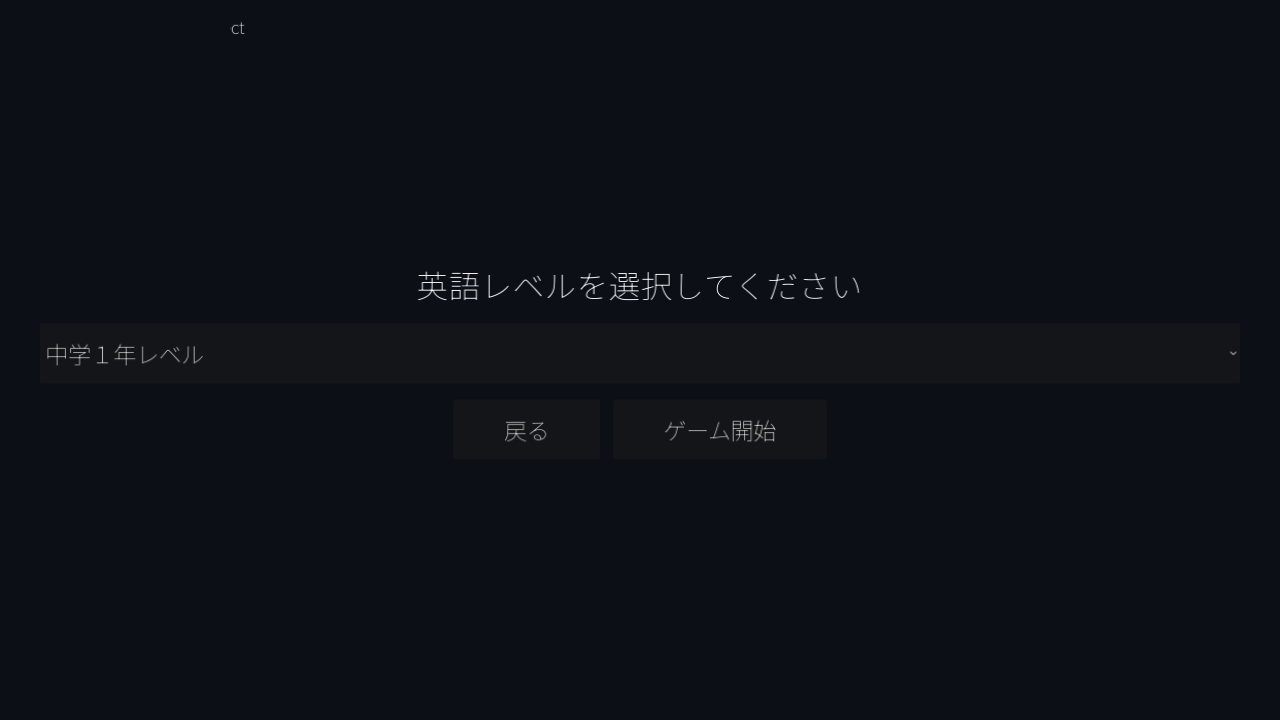
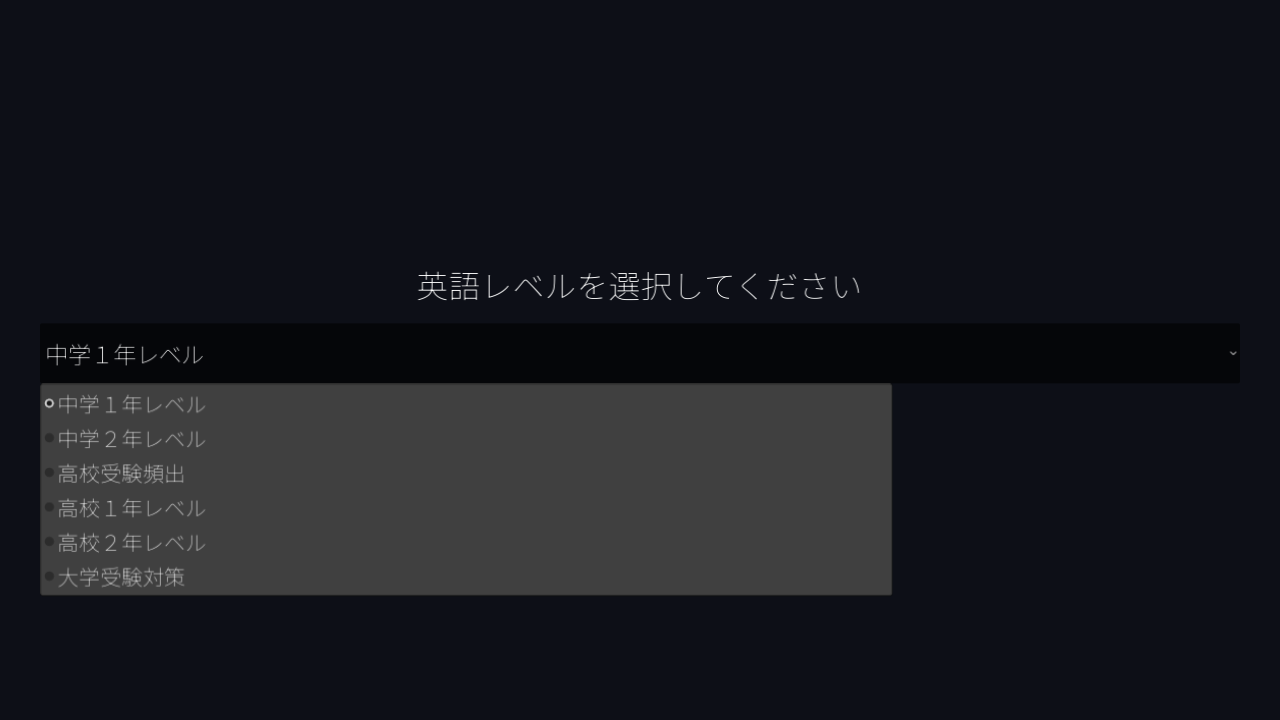
Update guide and landing page for the 3-Act map restructuring
Reflects the game's recent changes: 3-Act/30-floor map structure
(per-act chest/safe-room/boss placement, elite rates), a functional
rest screen, CardType-based card colors, the deck view panel, and the
mid-run save/continue feature. Refreshes screenshots for the map,
battle, victory, shop, and title screens, and adds new ones for the
deck view and rest screen.

Changed region(s): [[0.0312, 0.5194, 0.7188, 0.825]]

diff --git a/lexiconrogue-guide/modes.html b/lexiconrogue-guide/modes.html
@@ -42,27 +42,35 @@
     <p class="lede">マップの構造と、各マスで発生するイベントを解説します。</p>
 
     <h2>マップの構造</h2>
-    <p>1回のラン（周回）につき、マップは16階層（0〜15階）で構成されます。最初の1歩は必ず戦闘マスから始まり、3〜4本のルートが枝分かれ・合流しながら進み、最終的にすべてのルートが最上階（15階）の単一のボスマスへ収束します。行き止まりは発生しません。</p>
-    <ul>
-      <li><strong>7階</strong>：休憩マスが必ず配置されます（現在準備中の機能です）</li>
-      <li><strong>8階</strong>：宝箱マスが必ず配置されます</li>
-      <li><strong>11階</strong>：ショップマスが必ず配置されます</li>
-      <li><strong>8階以降</strong>：エリートマスが出現するようになります</li>
-    </ul>
-    <p>それ以外の階では、戦闘・？イベント・ショップ・休憩のいずれかが確率で配置されます。</p>
-    <img class="shot" src="assets/screenshots/04_map.png" alt="マップ画面のスクリーンショット">
-    <p class="shot-caption">マップは下から上へ進みます。ノードの色と文字でマスの種類が一目で分かります。</p>
+    <p>1回のラン（周回）は<strong>全3Act・通算30階層</strong>で構成されます。Actごとに新しいマップ（10階層）が生成され、最初の1歩は必ず戦闘マスから始まり、3〜4本のルートが枝分かれ・合流しながら進み、最終的にすべてのルートがそのActの最上階（10階層目）にある単一のボスマスへ収束します。行き止まりは発生しません。Act1・Act2のボスを倒すと次のActのマップが新しく生成され、Act3のボスを倒すとラン完全クリアです。</p>
+
+    <div class="table-wrap">
+    <table>
+      <tr><th>Act</th><th>通算階層</th><th>宝箱（確定）</th><th>安全地帯（確定）</th><th>ボス</th><th>エリート出現</th></tr>
+      <tr><td>Act 1</td><td>1〜10階</td><td>5階</td><td>9階（休憩 or ショップ）</td><td>10階</td><td>5階以降・出現率15%</td></tr>
+      <tr><td>Act 2</td><td>11〜20階</td><td>15階</td><td>19階（ショップ）</td><td>20階</td><td>13階以降・出現率20%</td></tr>
+      <tr><td>Act 3</td><td>21〜30階</td><td>25階</td><td>29階（休憩）</td><td>30階（最終ボス）</td><td>23階以降・出現率25%</td></tr>
+    </table>
+    </div>
+    <p>上記の確定マス以外の階では、戦闘・？イベント・ショップ・休憩のいずれかが確率で配置されます。Actが進むほどエリートの出現率が上がり、通常戦闘も手強い敵編成（Hardプール）へ切り替わるタイミングが早くなります（下記「戦闘」参照）。</p>
+    <img class="shot" src="assets/screenshots/04_map.png" alt="マップ画面のスクリーンショット。最上段にボス、その1つ下に休憩マスが並ぶ">
+    <p class="shot-caption">Act1のマップ上部。最上段（王のアイコン）がボス、その下の段が確定の安全地帯（この時は休憩が3つ並んでいる）です。ノードの色と文字でマスの種類が一目で分かります。</p>
 
     <h2>マスの種類</h2>
 
     <h3>⚔ 戦闘</h3>
-    <p>通常の敵と戦います。ゲーム内の通算勝利数に応じて、ギミックを持たない易しい敵編成（Easyプール）から、品詞相性やギミックを持つ手強い編成（Hardプール）へ自動的に切り替わります。勝利するとゴールドと、3枚から1枚選べるカード報酬を獲得できます。</p>
+    <p>通常の敵と戦います。<strong>そのAct内での通常戦闘の勝利回数</strong>に応じて、ギミックを持たない易しい敵編成（Easyプール）から、品詞相性やギミックを持つ手強い編成（Hardプール）へ自動的に切り替わります。この勝利回数はAct1→2→3へ進むたびに0にリセットされ、Actごとに切り替わるまでの猶予が変わります。</p>
+    <ul>
+      <li><strong>Act1</strong>：1〜3回目の通常戦闘まではEasy、4回目以降はHard</li>
+      <li><strong>Act2・Act3</strong>：1〜2回目まではEasy、3回目以降はHard</li>
+    </ul>
+    <p>勝利するとゴールドと、3枚から1枚選べるカード報酬を獲得できます。</p>
 
     <h3>精鋭 エリート</h3>
     <p>通常戦闘より強化された敵と戦う、リスクの高いマスです。勝利すると、カード報酬に加えて<strong>コモンまたはアンコモンのレリックを1個確定で獲得</strong>できます。</p>
 
     <h3>ボス</h3>
-    <p>各ルートの最終到達点にある、そのActで最も強い敵です。3種類のボスからランダムに1体が出現します。勝利すると<strong>レア・レリックを3択</strong>から1個選んで獲得できます。</p>
+    <p>各Actのマップの最終到達点にある、そのActで最も強い敵です。3種類のボスからランダムに1体が出現します。勝利すると<strong>レア・レリックを3択</strong>から1個選んで獲得できます。Act1・Act2のボスを倒すと次のActの新しいマップへ進み、Act3（最終Act）のボスを倒すとラン完全クリアです。</p>
 
     <h3>宝 宝箱</h3>
     <p>タップすると開封演出のあと、レアリティ抽選（Common 60% / Uncommon 30% / Rare 10%）でレリックを1個、確定で獲得できます。1回の訪問につき1個だけです。</p>
@@ -89,7 +97,9 @@
     <p class="shot-caption">「言葉を奪う祠」イベント。呪いと引き換えに強力なレリックを得るか、安全に回復するかを選びます。</p>
 
     <h3>休 休憩</h3>
-    <div class="note-box">休憩マスはマップ上に必ず配置されますが、現在のバージョンではまだ機能が実装されていません（マスを踏むと「準備中」の表示になります）。今後のアップデートで対応予定です。</div>
+    <p>タップするだけで<strong>最大HPの30%を回復</strong>できる安全地帯です。1回の訪問につき1回だけ回復できます。Act1の9階（休憩orショップ）とAct3の29階に確定で配置されるほか、それ以外の階でも確率で出現します。</p>
+    <img class="shot" src="assets/screenshots/12_rest.png" alt="休憩画面のスクリーンショット">
+    <p class="shot-caption">休憩マスをタップするとHPが回復します（この例では最大HP60の30%＝18回復）。</p>
 
     <h2>ラン開始直後の「旅立ちの選択」</h2>
     <p>ラン（周回）を開始すると、マップに進む前に3択のボーナスイベントが表示されます。</p>

diff --git a/lexiconrogue-guide/guide.html b/lexiconrogue-guide/guide.html
@@ -42,16 +42,19 @@
     <p class="lede">LexiconRogueの基本的な流れと、戦闘・クイズのルール、操作方法をまとめます。</p>
 
     <h2>基本の流れ</h2>
-    <p>ゲームを開始すると、まず英語レベルを選択します。ラン開始直後には「旅立ちの選択」イベントで3択のボーナスを選び、そのあとマップ画面に進みます。マップは下から上に16階層あり、各マスを選んで進みながらボスを目指します。</p>
+    <p>ゲームを開始すると、まず英語レベルを選択します。ラン開始直後には「旅立ちの選択」イベントで3択のボーナスを選び、そのあとマップ画面に進みます。1回のランは<strong>全3Act・通算30階層</strong>で構成され、各Actのマップは10階層。各Actの最後にはそのAct専用のボスが待ち構えています。</p>
     <ol>
       <li>英語レベルを選択してゲーム開始</li>
       <li>「旅立ちの選択」で最初のボーナスを1つ選ぶ</li>
-      <li>マップ上のマスを選んで1階層ずつ進む（戦闘・宝箱・ショップ・イベントなど）</li>
+      <li>マップ上のマスを選んで1階層ずつ進む（戦闘・宝箱・ショップ・イベント・休憩など）</li>
       <li>戦闘に勝つとゴールドとカード、状況によってはレリックを獲得</li>
-      <li>最終階のボスを倒すとそのAct（周回）はクリア</li>
+      <li>Act1・Act2のボスを倒すと次のActへ進み、新しいマップが生成される</li>
+      <li>Act3（最終Act）のボスを倒すとラン完全クリア</li>
     </ol>
     <img class="shot" src="assets/screenshots/02_level_select.png" alt="英語レベル選択画面のスクリーンショット">
-    <p class="shot-caption">ゲーム開始時に、中学1年レベルから大学受験対策レベルまで6段階から英語レベルを選べます。</p>
+    <p class="shot-caption">ゲーム開始時に、中学1年レベルから大学受験対策レベルまで6段階から英語レベルをドロップダウンで選べます。</p>
+
+    <div class="note-box">ランの途中経過は、マップに戻るたびに自動的にセーブされます。タイトル画面の「コンティニュー」から、アプリを閉じた続きからそのまま再開できます（ランが終了する、またはクリアするとセーブデータは消去されます）。</div>
 
     <h2>戦闘とクイズの基本ルール</h2>
     <p>戦闘は自分のターンとカードプレイ、敵のターンの繰り返しです。1ターンに使えるエナジーは3、手札は5枚まで持てます。カードは<strong>そのままでは発動しません</strong>。手札のカードを前方向にドラッグしてプレイすると、そのカードに紐づく英単語のクイズが表示され、<strong>正解して初めてカードの効果（攻撃・シールドなど）が発動</strong>します。不正解の場合、そのカードの効果は発動しません。</p>
@@ -75,14 +78,22 @@
       <li><strong>シールド貫通・無効化</strong>：特定の品詞のシールドしか効かない、または特定の品詞のシールドだけが一切効かない攻撃を持つ敵がいます。</li>
     </ul>
 
+    <h3>レキシコンの力</h3>
+    <p>現在のデッキに乗っている単語のうち、そのランで一度でも正解した単語が<strong>半分以上</strong>になると、画面左下の「レキシコンの力」ボタンが発動可能になります（ボタン横のバーが、灰色から黄色に変わりながら達成度を示します）。発動すると、デッキ内の単語がまとめて新しい単語に入れ替わり、そのカードは強化状態になります。同じ単語が定着したら、新しい単語でさらに語彙を広げていくための仕組みです。</p>
+    <img class="shot" src="assets/screenshots/05_battle_quiz.png" alt="戦闘画面。左下にレキシコンの力ボタンと達成度バーが表示されている">
+    <p class="shot-caption">左下の「レキシコンの力」ボタンと達成度バー。カードの背景色は種類（攻撃=赤／防御・技=青／パワー=紫／弱点=焦げ茶／お邪魔=灰）で、枠線の色は品詞で分かれています。</p>
+
     <h2>操作方法</h2>
     <ul>
       <li><strong>カードを使う</strong>：手札のカードを上方向にドラッグしてプレイします。</li>
       <li><strong>カードの詳細を見る</strong>：カードを軽くタップすると、効果の詳細（右側パネル）が表示されます。</li>
       <li><strong>クイズに解答する</strong>：4つの選択肢のいずれかをタップします。</li>
       <li><strong>読み上げ機能</strong>：クイズが表示されると、対象の英単語（和→英の場合は4つの選択肢すべて）が自動で読み上げられます。「再生」ボタンでいつでも聞き直せます。読み上げのON/OFF・音量・速さは設定画面で調整できます。</li>
+      <li><strong>デッキ内容を確認する</strong>：画面上部の「デッキ」ボタンから、現在のデッキ全体を品詞順に確認できます。レキシコンの力で強化済みのカードには専用のバッジが付きます。</li>
       <li><strong>設定を開く</strong>：画面右上の歯車アイコンから、英語レベルの変更、BGM/SE音量、読み上げ設定、手札の並べ替え順を変更できます。</li>
     </ul>
+    <img class="shot" src="assets/screenshots/11_deck_view.png" alt="デッキ内容表示パネルのスクリーンショット">
+    <p class="shot-caption">デッキ内容表示パネル。品詞ごとにグループ分けされ、強化済みのカードが一目で分かります。</p>
     <img class="shot" src="assets/screenshots/10_settings.png" alt="設定画面のスクリーンショット">
     <p class="shot-caption">設定画面では英語レベルの切り替えのほか、音量・読み上げ機能のON/OFF・速さ・音量を調整できます。</p>
 

diff --git a/lexiconrogue-guide/cards.html b/lexiconrogue-guide/cards.html
@@ -43,6 +43,20 @@
 
     <div class="note-box">出題方向（英→和／和→英）は、攻撃・防御・カードの種類に関係なく、カードごとに完全ランダムで決まります。同じ「攻撃カード」でも英→和になることも和→英になることもあり、たまたま手札の全カードが同じ方向に偏ることもあります。</div>
 
+    <h2>カードの色分け</h2>
+    <p>カードの中の背景色は<strong>カードの種類</strong>で、枠線の色は<strong>品詞</strong>で決まります。バトル中は色を見るだけでカードの性質がひと目で分かります。</p>
+    <div class="table-wrap">
+    <table>
+      <tr><th>背景色</th><th>カードの種類</th></tr>
+      <tr><td><span class="swatch" style="background:var(--type-attack)"></span>赤</td><td>ATTACK（攻撃）</td></tr>
+      <tr><td><span class="swatch" style="background:var(--type-skill)"></span>青</td><td>SKILL（防御・その他の技）</td></tr>
+      <tr><td><span class="swatch" style="background:var(--type-power)"></span>紫</td><td>POWER（使い切ると戦闘中ずっと続く永続強化）</td></tr>
+      <tr><td><span class="swatch" style="background:var(--type-weakness)"></span>焦げ茶</td><td>WEAKNESS（クイズ不正解のペナルティカード）</td></tr>
+      <tr><td><span class="swatch" style="background:var(--type-status)"></span>灰</td><td>STATUS（負傷・火傷などのお邪魔カード）</td></tr>
+    </table>
+    </div>
+    <p>枠線の色は<a href="glossary.html">用語集の品詞システム</a>と同じ配色（名詞・動詞・形容詞・副詞・その他）です。</p>
+
     <h2>基本カード（初期デッキ）</h2>
     <p>初期デッキは「名詞・動詞・形容詞・副詞・その他」の5品詞 × 「攻撃／防御」の2種＝計10枚で構成されます。</p>
     <div class="table-wrap">

diff --git a/lexiconrogue-guide/glossary.html b/lexiconrogue-guide/glossary.html
@@ -101,6 +101,19 @@
     </table>
     </div>
 
+    <h2>レキシコンの力・デッキ管理</h2>
+    <div class="table-wrap">
+    <table>
+      <tr><th>用語</th><th>説明</th></tr>
+      <tr><td>レキシコンの力</td><td>デッキ内の単語のうち、ラン中に一度でも正解した単語が半分以上になると発動可能になる特殊能力。発動するとデッキの単語がまとめて入れ替わり、対象のカードは強化される。</td></tr>
+      <tr><td>デッキ内容表示</td><td>戦闘画面上部の「デッキ」ボタンから開ける、現在のデッキ全体を品詞順に確認できるパネル。レキシコンの力で強化済みのカードにはバッジが付く。</td></tr>
+      <tr><td>コンティニュー</td><td>ランの途中経過（HP・デッキ・所持金・マップの進行状況など）はマップに戻るたびに自動保存され、タイトル画面の「コンティニュー」から再開できる。ランが終了・クリアすると保存データは消去される。</td></tr>
+    </table>
+    </div>
+
+    <h2>Act（章）と階層</h2>
+    <p>1回のランは全3Act・通算30階層で構成されます。Actごとに新しいマップ（10階層）が生成され、Act1・Act2はボスを倒すと次のActへ、Act3のボスを倒すとラン完全クリアです。ランキングの「到達フロア」は、この通算階層（1〜30）で記録されます。</p>
+
     <h2>英語レベル</h2>
     <p>ゲーム開始時とバトル中の設定画面から、6段階の英語レベルを切り替えられます。レベルによって出題される単語プールが変わります。</p>
     <ol>

diff --git a/lexiconrogue.html b/lexiconrogue.html
@@ -117,9 +117,11 @@
   <ul class="features">
     <li>カードを使うには意味を選ぶクイズに正解する必要がある、緊張感のあるバトルシステム</li>
     <li>名詞・動詞・形容詞・副詞など品詞を意識したコンボ・シナジー</li>
+    <li>全3Act・通算30階層にわたる、Actごとに難度が上がるマップ構成</li>
     <li>中学１年レベルから大学受験対策まで、6段階の英語レベル</li>
     <li>間違えた単語を自動記録し、あとから復習できるクイック復習機能</li>
     <li>遺物（レリック）集めやハイスコアランキングなど、ローグライクとしてのやり込み要素</li>
+    <li>ランの途中経過は自動セーブ。アプリを閉じても「コンティニュー」で続きから再開可能</li>
   </ul>
 
   <div class="status">現在 Google Play 内部テストの準備を進めています。公開まで今しばらくお待ちください。</div>

diff --git a/lexiconrogue-guide/style.css b/lexiconrogue-guide/style.css
@@ -18,6 +18,11 @@
   --rare: #d4a643;
   --uncommon: #8fa8c9;
   --common: #6f7488;
+  --type-attack: #ad3339;
+  --type-skill: #3568b3;
+  --type-power: #7a49a3;
+  --type-weakness: #7a4536;
+  --type-status: #6c6975;
 }
 
 * { box-sizing: border-box; }
@@ -217,6 +222,15 @@ a:hover { text-decoration: none; }
 .pill-common { background: rgba(111,116,136,0.2); color: var(--common); }
 .pill-uncommon { background: rgba(143,168,201,0.2); color: var(--uncommon); }
 .pill-rare { background: var(--accent-soft); color: var(--rare); }
+
+.swatch {
+  display: inline-block;
+  width: 14px;
+  height: 14px;
+  border-radius: 4px;
+  margin-right: 8px;
+  vertical-align: -2px;
+}
 
 .pos-noun { color: var(--noun); }
 .pos-verb { color: var(--verb); }

diff --git a/lexiconrogue-guide/index.html b/lexiconrogue-guide/index.html
@@ -46,7 +46,8 @@
     </div>
 
     <div class="stat-grid">
-      <div class="stat-box"><div class="num">16</div><div class="label">階層 / Act</div></div>
+      <div class="stat-box"><div class="num">3</div><div class="label">Act</div></div>
+      <div class="stat-box"><div class="num">30</div><div class="label">通算階層</div></div>
       <div class="stat-box"><div class="num">6</div><div class="label">英語レベル</div></div>
       <div class="stat-box"><div class="num">20</div><div class="label">カード種類</div></div>
       <div class="stat-box"><div class="num">10</div><div class="label">レリック種類</div></div>
